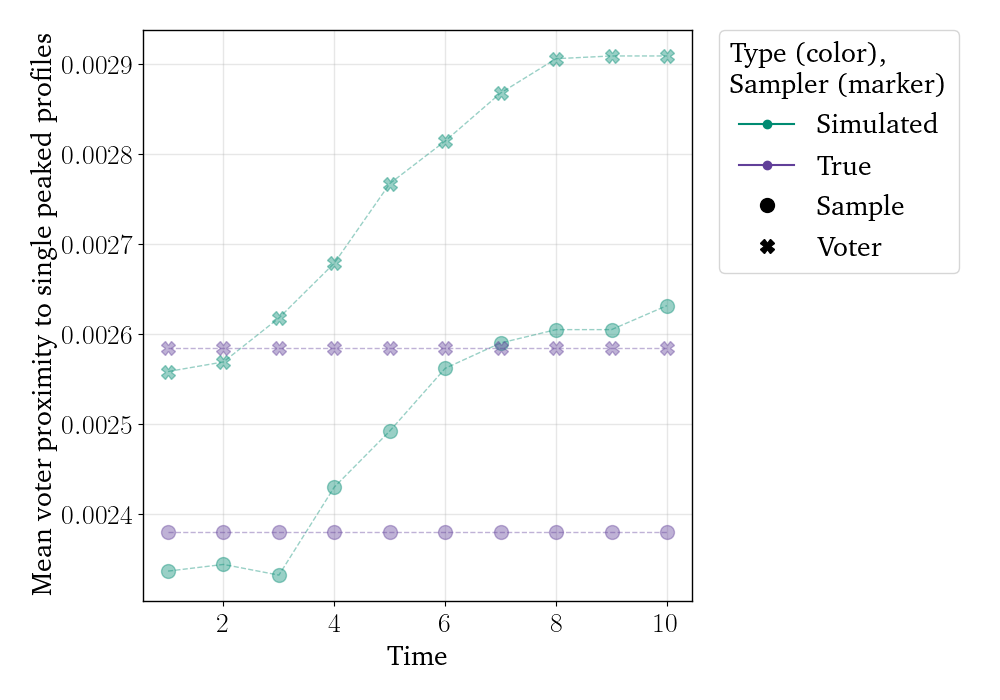
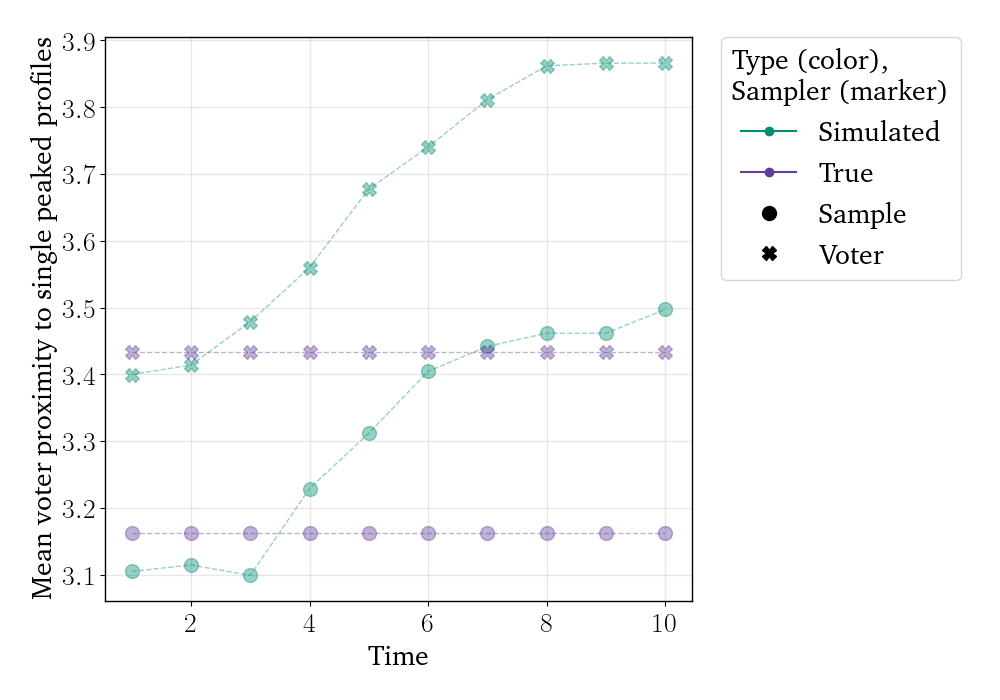
bug fix number of voters without group

diff --git a/src/scripts/election_evals.py b/src/scripts/election_evals.py
@@ -1,19 +1,12 @@
 import numpy as np
-from preflibtools.properties.subdomains.ordinal.singlepeaked import k_alternative_deletion, singlepeakedness
+from preflibtools.properties.subdomains.ordinal.singlepeaked import (
+    k_alternative_deletion,
+    singlepeakedness,
+)
 from preflibtools.instances import OrdinalInstance
 import preflibtools
 import sys
 import os
-
-
-class HiddenPrints:
-    def __enter__(self):
-        self._original_stdout = sys.stdout
-        sys.stdout = open(os.devnull, 'w')
-
-    def __exit__(self, exc_type, exc_val, exc_tb):
-        sys.stdout.close()
-        sys.stdout = self._original_stdout
 
 
 def np_to_Ordinal(arr: np.ndarray):
@@ -33,24 +26,39 @@ def get_max_num_voters_for_single_peakedness(prof: np.ndarray):
         return -1
     else:
         inst = np_to_Ordinal(prof)
-        with HiddenPrints():
-            num_removed, _, axis, _ = singlepeakedness.approx_SP_voter_deletion_ILP(
-                inst)
-        return int(len(prof)-num_removed)
+        num_removed, _, axis, _ = singlepeakedness.approx_SP_voter_deletion_ILP(
+            inst)
+        return int(len(prof) - num_removed)
 
 
 if __name__ == "__main__":
-    get_max_num_cands_for_single_peakedness(
-        np.array([
-            [1, 2, 3],
-            [3, 1, 2],
-            [2, 3, 1]
-        ])
-    )
-    get_max_num_voters_for_single_peakedness(
-        np.array([
-            [1, 2, 3],
-            [3, 1, 2],
-            [2, 3, 1],
-        ])
+    print(
+        get_max_num_voters_for_single_peakedness(
+            np.array(
+                [
+                    [1, 2, 3],
+                    [1, 2, 3],
+                    [1, 2, 3],
+                    [1, 2, 3],
+                    [1, 2, 3],
+                    [1, 2, 3],
+                    [1, 2, 3],
+                    [1, 2, 3],
+                    [1, 2, 3],
+                    [1, 2, 3],
+                    [1, 2, 3],
+                    [1, 2, 3],
+                    [1, 2, 3],
+                    [1, 2, 3],
+                    [1, 2, 3],
+                    [1, 2, 3],
+                    [1, 2, 3],
+                    [1, 2, 3],
+                    [1, 2, 3],
+                    [1, 2, 3],
+                    [3, 1, 2],
+                    [2, 3, 1],
+                ]
+            )
+        )
     )

diff --git a/src/scripts/degroot_analysis.py b/src/scripts/degroot_analysis.py
@@ -222,14 +222,14 @@ def _(np, pd):
     for c in prox_voter_cols:
         data_control[c] = data_control[c].replace(-1, np.nan)
         data_delib[c] = data_delib[c].replace(-1, np.nan)
-        data_control[c] = data_control[c] /data_control["n_voters"]
-        data_delib[c] = data_delib[c] /data_delib["n_voters"]
+        # data_control[c] = data_control[c] /data_control["n_voters"]
+        # data_delib[c] = data_delib[c] /data_delib["n_voters"]
     return c, data_control, data_delib, prox_cols, prox_voter_cols
 
 
 @app.cell
-def _(data_control):
-    data_control.describe()
+def _(data_delib):
+    data_delib.describe()
     return
 
 
@@ -331,8 +331,8 @@ def _(compute_and_merge_proportions, compute_average, data_delib, pd, plot):
 
         # === Plotting all variants in one figure ===
         plot(cyclic, "time_steps", "cyclic_proportion", "Mean Number of Cyclic Profiles", file_prefix)
-        plot(proximity_to_sp, "time_steps", "proximity_to_cand_sp", "Mean candidate proximity to single peaked Profiles", file_prefix)
-        plot(proximity_to_voter_sp, "time_steps", "proximity_to_voter_sp", "Mean voter proximity to single peaked Profiles", file_prefix)
+        plot(proximity_to_sp, "time_steps", "proximity_to_cand_sp", "Mean PsT-C", file_prefix)
+        plot(proximity_to_voter_sp, "time_steps", "proximity_to_voter_sp", "Mean PsT-V", file_prefix)
         plot(condorcet, "time_steps", "condorcet_proportion", "Mean number of Condorcet winners", file_prefix)
         plot(unique_profiles, "time_steps", "unique", "Mean number of Unique Preferences", file_prefix)
 
